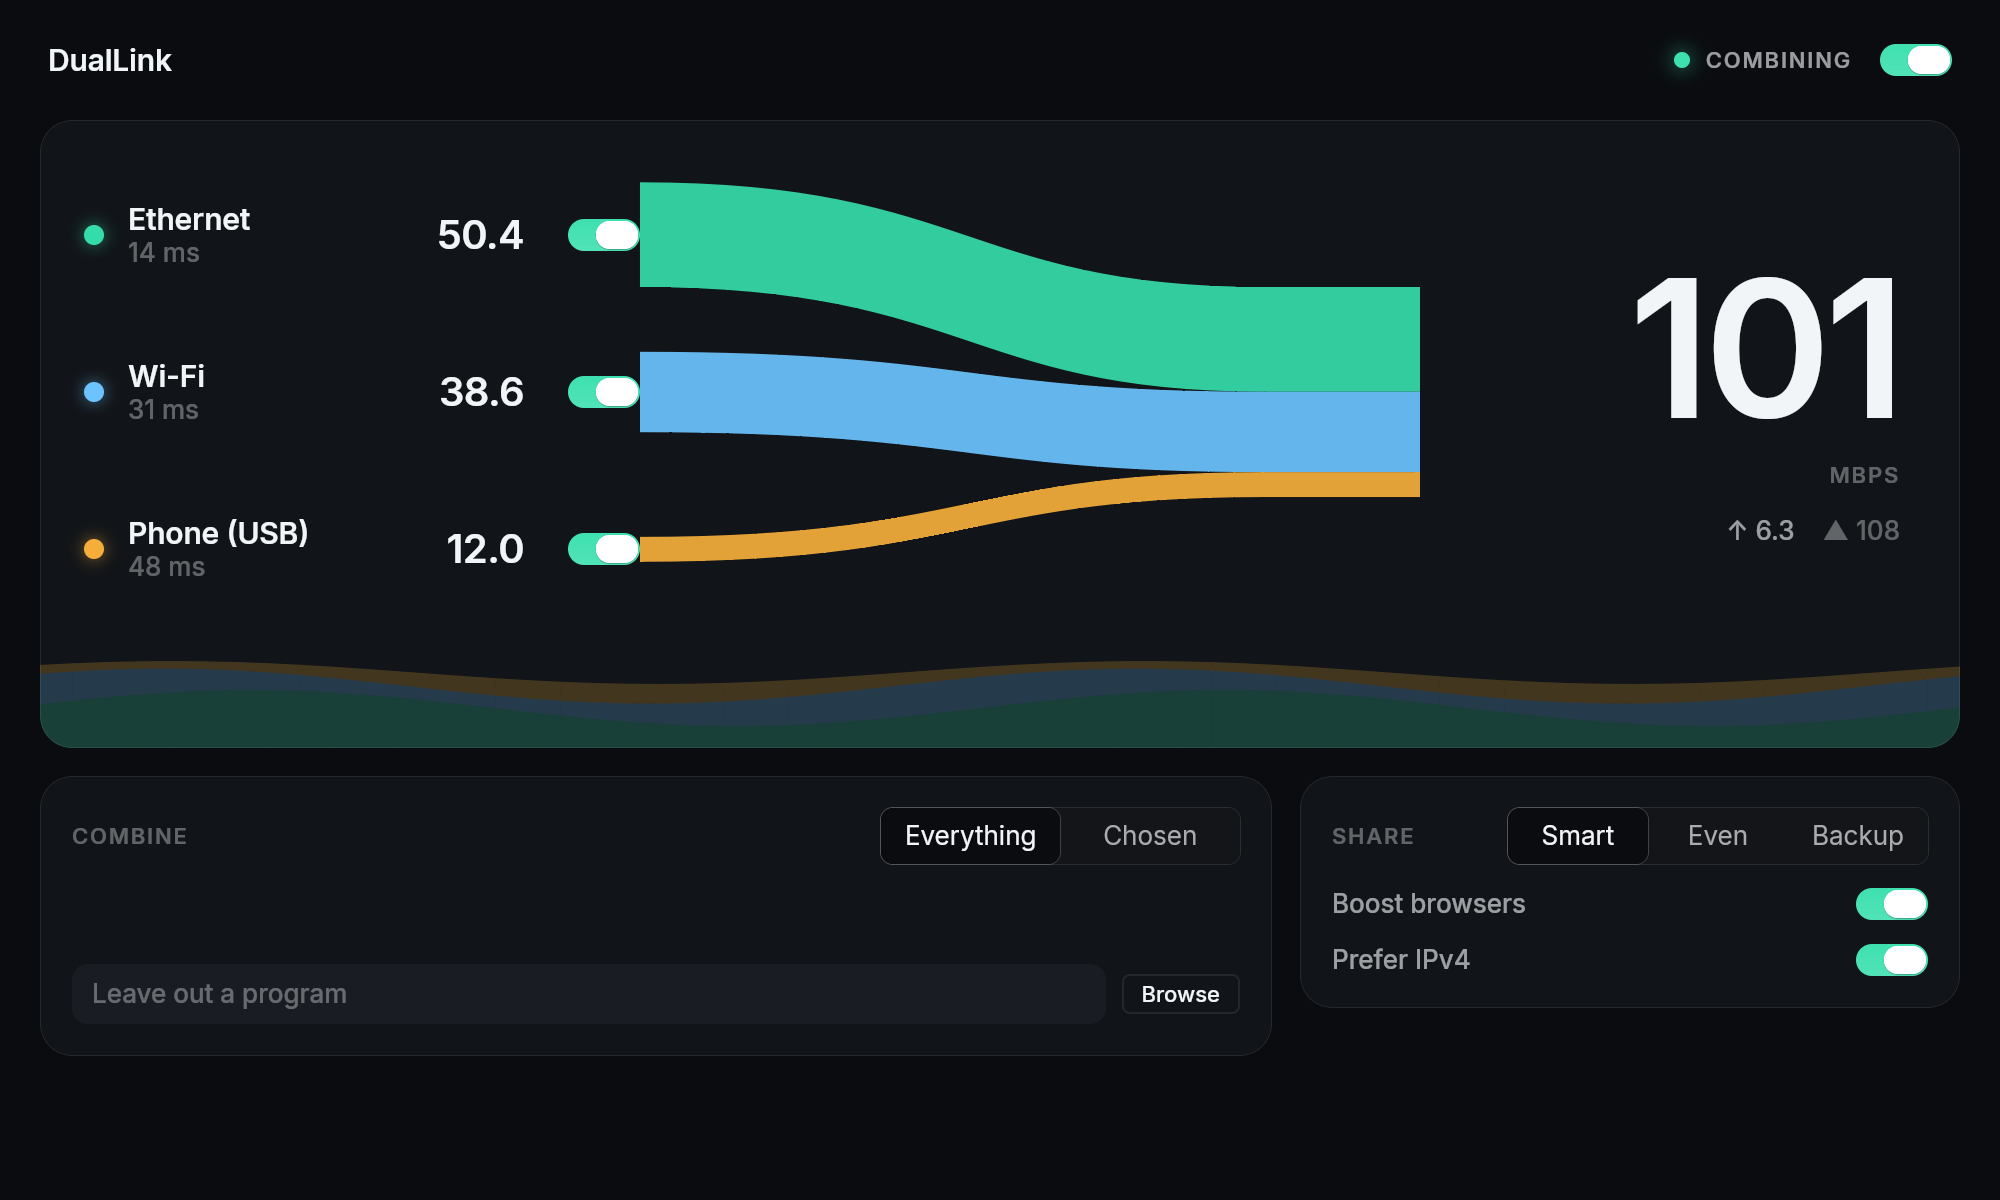
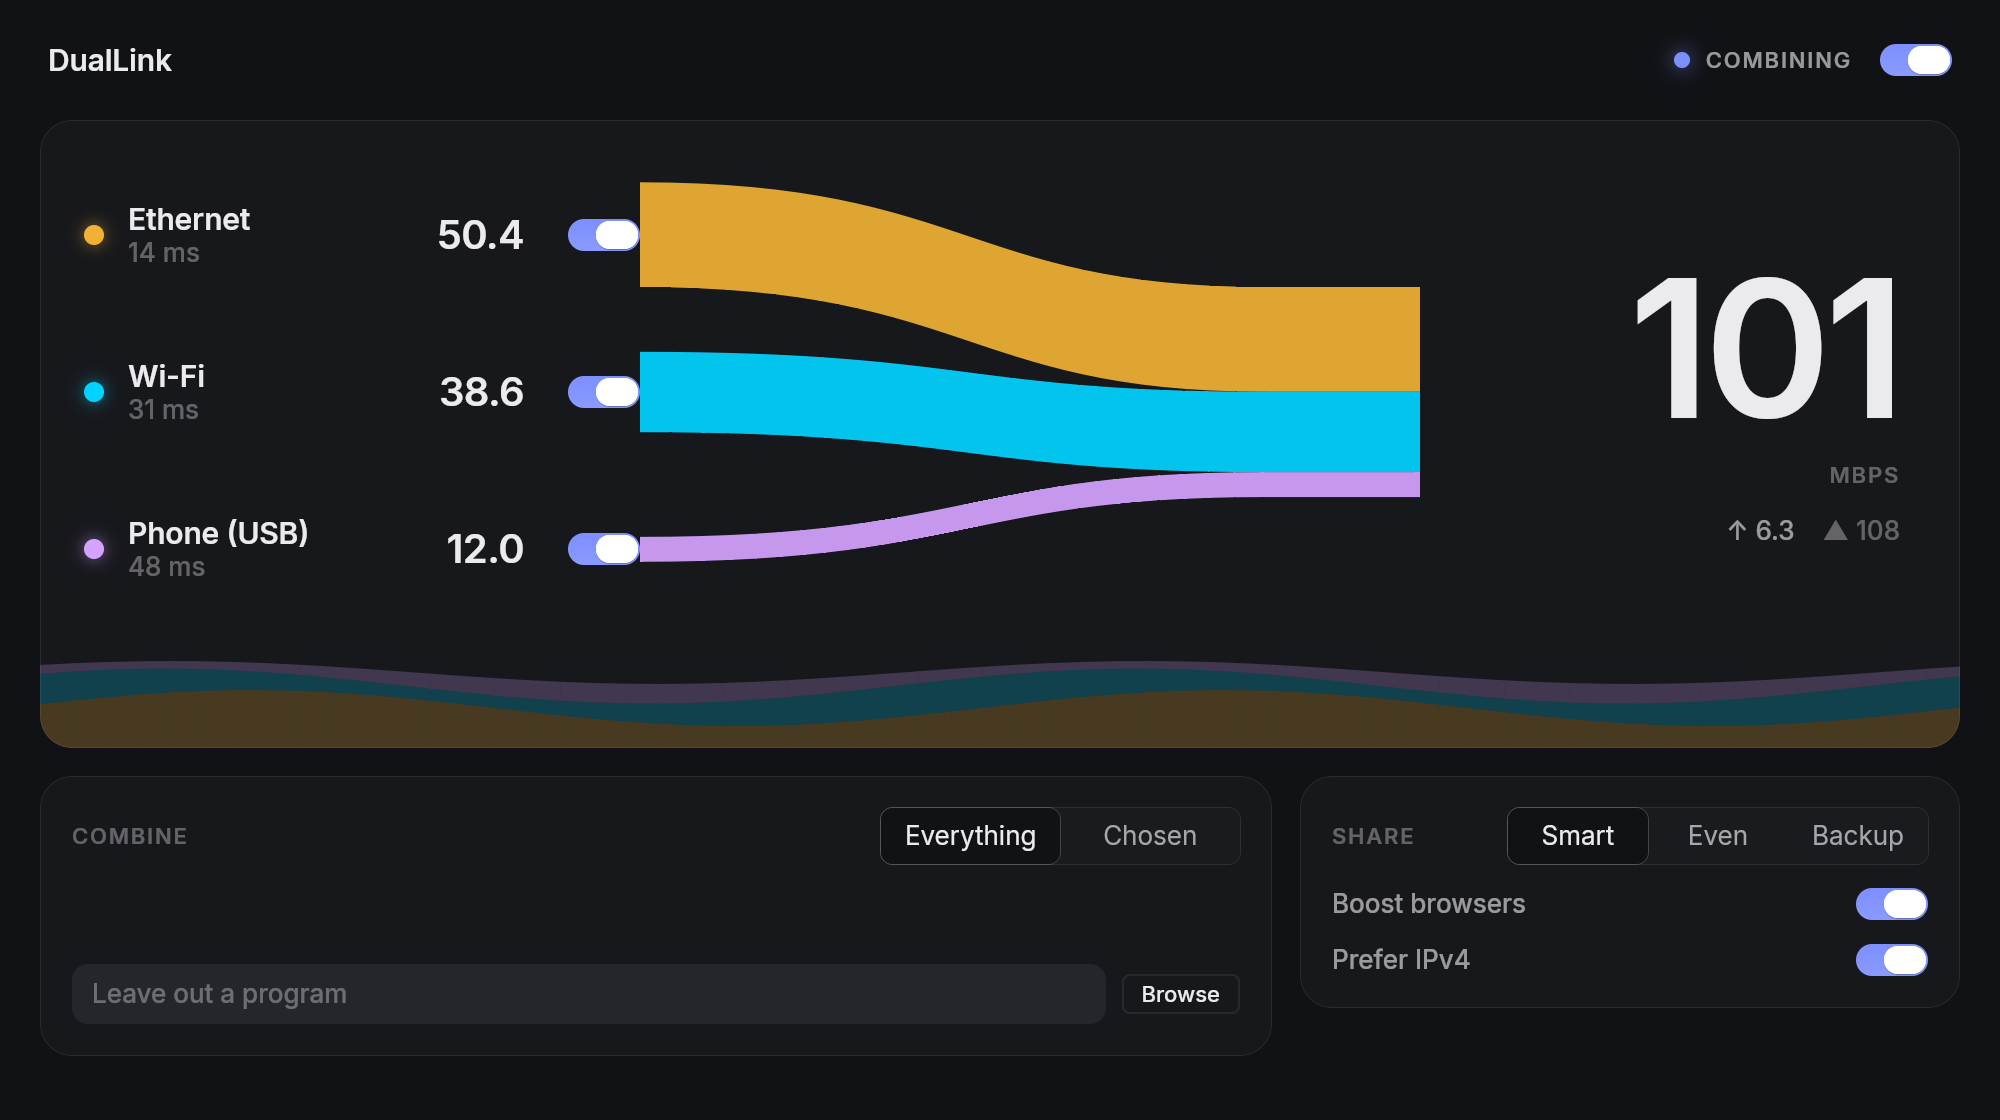
feat: carry the DualLink palette into the new window and wire up CI
Graphite surfaces, indigo accent, amber and cyan for the first two connections. Set-Version now updates the native workspace; CI lints, tests and builds it.

diff --git a/crates/duallink-app/src/theme.rs b/crates/duallink-app/src/theme.rs
@@ -37,7 +37,7 @@ pub struct Theme {
     pub ink: Color,
     pub ink_soft: Color,
     pub ink_faint: Color,
-    /// DualLink's own colour: the combined stream and anything switched on.
+    /// DualLink's own colour, for anything switched on.
     pub accent: Color,
     pub warn: Color,
     pub bad: Color,
@@ -45,9 +45,9 @@ pub struct Theme {
 
 pub fn theme(dark: bool, scale: f32) -> Theme {
     let (ground, ink, accent) = if dark {
-        (hex("#0a0c0f"), hex("#f2f5f7"), hex("#3ee0b0"))
+        (hex("#111215"), hex("#ebebef"), hex("#7d8fff"))
     } else {
-        (hex("#f3f4f6"), hex("#0f1317"), hex("#00a47c"))
+        (hex("#f4f4f7"), hex("#17181c"), hex("#5466e0"))
     };
     let mut k = Kit::from_palette(PaletteSeed { bg: ground, fg: ink, accent });
     k.c.knob_on = hex("#ffffff");
@@ -71,8 +71,8 @@ pub fn theme(dark: bool, scale: f32) -> Theme {
         },
         hair: 1.0 / scale,
         ground,
-        panel: if dark { hex("#111418") } else { hex("#ffffff") },
-        raised: if dark { hex("#191d23") } else { hex("#eef0f3") },
+        panel: if dark { hex("#17181c") } else { hex("#ffffff") },
+        raised: if dark { hex("#25262c") } else { hex("#ececf1") },
         line: ink.alpha(if dark { 0.09 } else { 0.1 }),
         ink,
         ink_soft: ink.alpha(0.62),
@@ -88,7 +88,8 @@ impl Theme {
     /// One colour per connection, by its place in the list, spaced round the colour wheel
     /// at equal lightness so no connection looks more important than another.
     pub fn link(&self, index: usize) -> Color {
-        const HUES: [f32; 8] = [168.0, 250.0, 75.0, 320.0, 30.0, 205.0, 120.0, 355.0];
+        // Amber and cyan come first: they have always stood for the first two connections.
+        const HUES: [f32; 8] = [80.0, 220.0, 305.0, 160.0, 30.0, 270.0, 125.0, 355.0];
         rune::oklch(if self.dark { 0.8 } else { 0.62 }, 0.15, HUES[index % HUES.len()])
     }
 }

diff --git a/crates/duallink-app/src/view.rs b/crates/duallink-app/src/view.rs
@@ -120,10 +120,9 @@ fn notice(s: &Ui, t: &Theme) -> Option<El> {
         ("The DualLink service isn't running. Restart the PC or run setup again.".to_string(), t.bad)
     } else if let Some(refused) = &s.refused {
         (format!("Not saved. {refused}"), t.warn)
-    } else if let Some(problem) = problem {
-        (problem, if s.state() == EngineState::Failed { t.bad } else { t.warn })
     } else {
-        return None;
+        let problem = problem?;
+        (problem, if s.state() == EngineState::Failed { t.bad } else { t.warn })
     };
     Some(
         row().key("notice").px(20.0).pb(12.0).child(
@@ -602,8 +601,11 @@ fn sharing_panel(s: &Ui, t: &Theme) -> El {
         ))
 }
 
+/// A named state the window can be put in.
+pub type Scene = (&'static str, fn(&mut Ui));
+
 /// States the window can be shown in without a service, for checking how it looks.
-pub const SCENES: &[(&str, fn(&mut Ui))] = &[
+pub const SCENES: &[Scene] = &[
     ("on", |s| demo(s, EngineState::On, 3)),
     ("four", |s| demo(s, EngineState::On, 4)),
     ("off", |s| demo(s, EngineState::Off, 2)),

diff --git a/crates/duallink-app/src/state.rs b/crates/duallink-app/src/state.rs
@@ -11,6 +11,9 @@ use std::time::Duration;
 pub const HISTORY: usize = 60;
 pub const CAPS_MBPS: [u32; 9] = [0, 5, 10, 25, 50, 100, 250, 500, 1000];
 
+/// Bytes down and up per link id, as last reported.
+type Counters = HashMap<String, (u64, u64)>;
+
 /// What the service said, tagged with the last change of ours it had seen.
 pub struct Report {
     pub seen: u64,
@@ -39,7 +42,7 @@ pub struct Ui {
     pub peak: f32,
     pub expanded: Option<String>,
     pub program: TextEdit,
-    previous: Option<(u64, HashMap<String, (u64, u64)>)>,
+    previous: Option<(u64, Counters)>,
     sent: u64,
     changes: Option<Sender<(u64, Config)>>,
     reports: Option<Receiver<Report>>,

diff --git a/CHANGELOG.md b/CHANGELOG.md
@@ -4,7 +4,13 @@ All notable DualLink changes are recorded here. Versions follow semantic version
 
 ## 5.0.0-dev.1 - 2026-11-17
 
-- Begins the DualLink 5 rewrite: a fully native app with any number of connections, system-wide combining, and a new interface.
+- Begins the DualLink 5 rewrite as a fully native app. The DualLink 4 app stays in the tree until the new one has passed live testing.
+- Combines any number of connections: Ethernet, Wi-Fi, phones on USB, and mobile data, each tied to its adapter so two phones handing out the same address range don't collide.
+- Combines for everything on the PC, with a list of programs to leave alone, or only for chosen programs.
+- Replaces the separate filter service with one background service that watches packets and carries connections itself. If it stops, the adapters return to normal with nothing left pointing at it. No administrator prompt on each start.
+- Keeps browsers on traffic that can be combined by turning away QUIC and IPv6 for combined programs; both can be switched off.
+- New window: each connection is a stream of its own colour, and the streams run together into one that ends at the combined speed. One palette and type scale, in light and dark.
+- Not yet done in this build: the installer and build scripts still package DualLink 4, and the tray icon, start with Windows, and updates are not in the new app. The packet engine has unit tests but has not yet been run against live traffic.
 
 ## 4.2.0-dev.1 - 2026-10-12
 
